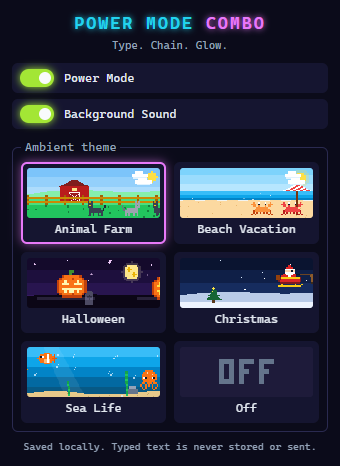
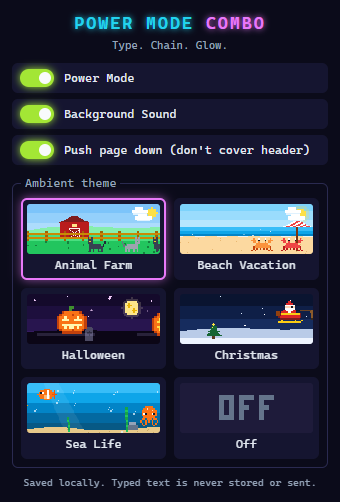
Add push-page-down mode so the ambient band sits above the site header

diff --git a/extension/src/content.js b/extension/src/content.js
@@ -48,6 +48,12 @@
   let counterAlpha = 0;
   let shownCount = 0;
 
+  let pushActive = false;
+  let pushStyle = null;
+  let pushObserver = null;
+  let scanTimer = 0;
+  const shifted = new Map();
+
   const makeCanvas = (w, h) => {
     const c = document.createElement('canvas');
     c.width = w;
@@ -337,6 +343,66 @@
     fullDirty = drewEffects || ox !== 0 || oy !== 0;
   }
 
+  // ---- Optional push-down: reserve the band above the page instead of covering it ------------
+
+  function scheduleScan() {
+    if (!scanTimer) scanTimer = setTimeout(scanPinned, 250);
+  }
+
+  function offsetIfPinned(el) {
+    if (shifted.has(el) || el === host || el === document.documentElement || el === document.body) return;
+    const cs = getComputedStyle(el);
+    if (cs.position !== 'fixed' && cs.position !== 'sticky') return;
+    const top = parseFloat(cs.top);
+    if (Number.isNaN(top) || top >= BAND) return;
+    shifted.set(el, { value: el.style.getPropertyValue('top'), priority: el.style.getPropertyPriority('top') });
+    el.style.setProperty('top', `${top + BAND}px`, 'important');
+  }
+
+  // Fixed/sticky headers ignore the html margin, so find anything pinned inside the band and move it down.
+  function scanPinned() {
+    scanTimer = 0;
+    if (!pushActive) return;
+    const w = document.documentElement.clientWidth;
+    const stepX = Math.max(40, w / 24);
+    for (let x = 4; x < w; x += stepX) {
+      for (const y of [2, BAND / 2, BAND - 2]) {
+        for (const el of document.elementsFromPoint(x, y)) offsetIfPinned(el);
+      }
+    }
+  }
+
+  function updatePush() {
+    const want = settings.pushPage && !!scene && !reducedMotion;
+    if (want === pushActive) {
+      if (want) scheduleScan();
+      return;
+    }
+    pushActive = want;
+    if (want) {
+      pushStyle = document.createElement('style');
+      pushStyle.textContent = `html{margin-top:${BAND}px !important;}`;
+      (document.head || document.documentElement).appendChild(pushStyle);
+      pushObserver = new MutationObserver(scheduleScan);
+      pushObserver.observe(document.documentElement, { childList: true, subtree: true });
+      window.addEventListener('scroll', scheduleScan, { capture: true, passive: true });
+      scanPinned();
+    } else {
+      pushStyle.remove();
+      pushStyle = null;
+      pushObserver.disconnect();
+      pushObserver = null;
+      window.removeEventListener('scroll', scheduleScan, { capture: true });
+      clearTimeout(scanTimer);
+      scanTimer = 0;
+      for (const [el, orig] of shifted) {
+        if (orig.value) el.style.setProperty('top', orig.value, orig.priority);
+        else el.style.removeProperty('top');
+      }
+      shifted.clear();
+    }
+  }
+
   // ---- Settings, audio, visibility --------------------------------------------------------------
 
   function updateMusic() {
@@ -363,6 +429,7 @@
       }
       fullDirty = true;
     }
+    updatePush();
     updateMusic();
     ensureLoop();
   }
@@ -428,7 +495,10 @@
   document.addEventListener('compositionstart', onCompositionStart, listen);
   document.addEventListener('compositionend', onCompositionEnd, listen);
   document.addEventListener('focusin', onFocusIn, listen);
-  window.addEventListener('resize', () => host && resize(), { passive: true });
+  window.addEventListener('resize', () => {
+    if (host) resize();
+    if (pushActive) scheduleScan();
+  }, { passive: true });
 
   document.addEventListener('visibilitychange', () => {
     if (document.hidden) {
@@ -448,6 +518,7 @@
     blots.clear();
     shakeLeft = 0;
     fullDirty = true;
+    updatePush();
     ensureLoop();
   });
 

diff --git a/tools/preview.html b/tools/preview.html
@@ -16,7 +16,7 @@
     <script>
       // In-memory stand-in for chrome.storage so the content scripts run on a plain page.
       (() => {
-        const data = { pmcSettings: { powerMode: true, sound: true, theme: 'farm' } };
+        const data = { pmcSettings: { powerMode: true, sound: true, pushPage: true, theme: 'farm' } };
         const listeners = [];
         window.chrome = {
           storage: {
@@ -54,6 +54,7 @@
       </label>
       <label><input type="checkbox" id="powerMode" checked /> Power Mode</label>
       <label><input type="checkbox" id="sound" checked /> Background Sound (starts after a click)</label>
+      <label><input type="checkbox" id="pushPage" checked /> Push page down</label>
     </div>
 
     <main>
@@ -80,11 +81,12 @@
     <script src="../extension/src/audio.js"></script>
     <script src="../extension/src/content.js"></script>
     <script>
-      const ids = ['theme', 'powerMode', 'sound'];
+      const ids = ['theme', 'powerMode', 'sound', 'pushPage'];
       const read = () => ({
         theme: document.getElementById('theme').value,
         powerMode: document.getElementById('powerMode').checked,
         sound: document.getElementById('sound').checked,
+        pushPage: document.getElementById('pushPage').checked,
       });
       for (const id of ids) document.getElementById(id).addEventListener('change', () => chrome.storage.local.set({ pmcSettings: read() }));
     </script>

diff --git a/extension/popup/popup.js b/extension/popup/popup.js
@@ -10,6 +10,7 @@
 
   const powerMode = document.getElementById('powerMode');
   const sound = document.getElementById('sound');
+  const pushPage = document.getElementById('pushPage');
   const grid = document.getElementById('themeGrid');
   let settings = Core.normalizeSettings(null);
 
@@ -72,6 +73,7 @@
   function render() {
     powerMode.checked = settings.powerMode;
     sound.checked = settings.sound;
+    pushPage.checked = settings.pushPage;
     for (const p of previews) p.input.checked = p.input.value === settings.theme;
   }
 
@@ -83,6 +85,7 @@
 
   powerMode.addEventListener('change', () => save({ powerMode: powerMode.checked }));
   sound.addEventListener('change', () => save({ sound: sound.checked }));
+  pushPage.addEventListener('change', () => save({ pushPage: pushPage.checked }));
 
   render();
   chrome.storage.local.get(Core.STORAGE_KEY).then((res) => {

diff --git a/tests/unit/core.test.js b/tests/unit/core.test.js
@@ -178,7 +178,7 @@ test('spawner respects the active cap and its gap timer', () => {
 });
 
 test('settings normalize to safe defaults', () => {
-  assert.deepEqual(Core.normalizeSettings(undefined), { powerMode: true, sound: true, theme: 'farm' });
-  assert.deepEqual(Core.normalizeSettings({ powerMode: 'yes', sound: false, theme: 'mars' }), { powerMode: true, sound: false, theme: 'farm' });
+  assert.deepEqual(Core.normalizeSettings(undefined), { powerMode: true, sound: true, pushPage: true, theme: 'farm' });
+  assert.deepEqual(Core.normalizeSettings({ powerMode: 'yes', sound: false, pushPage: 1, theme: 'mars' }), { powerMode: true, sound: false, pushPage: true, theme: 'farm' });
   for (const id of Core.THEME_IDS) assert.equal(Core.normalizeSettings({ theme: id }).theme, id);
 });

diff --git a/extension/src/core.js b/extension/src/core.js
@@ -7,7 +7,7 @@
   'use strict';
 
   const THEME_IDS = Object.freeze(['farm', 'beach', 'halloween', 'christmas', 'sea', 'off']);
-  const DEFAULT_SETTINGS = Object.freeze({ powerMode: true, sound: true, theme: 'farm' });
+  const DEFAULT_SETTINGS = Object.freeze({ powerMode: true, sound: true, pushPage: true, theme: 'farm' });
   const STORAGE_KEY = 'pmcSettings';
 
   const LIMITS = Object.freeze({
@@ -25,6 +25,7 @@
     return {
       powerMode: typeof s.powerMode === 'boolean' ? s.powerMode : DEFAULT_SETTINGS.powerMode,
       sound: typeof s.sound === 'boolean' ? s.sound : DEFAULT_SETTINGS.sound,
+      pushPage: typeof s.pushPage === 'boolean' ? s.pushPage : DEFAULT_SETTINGS.pushPage,
       theme: THEME_IDS.includes(s.theme) ? s.theme : DEFAULT_SETTINGS.theme,
     };
   }

diff --git a/extension/popup/popup.html b/extension/popup/popup.html
@@ -22,6 +22,11 @@
         <span class="track" aria-hidden="true"></span>
         <span class="text">Background Sound</span>
       </label>
+      <label class="switch">
+        <input type="checkbox" id="pushPage" role="switch" />
+        <span class="track" aria-hidden="true"></span>
+        <span class="text">Push page down (don't cover header)</span>
+      </label>
     </section>
 
     <fieldset class="themes">

diff --git a/README.md b/README.md
@@ -45,8 +45,14 @@ The screenshots and GIF were captured from real Chrome with the unpacked extensi
 - **Ambient behavior.** The scenery starts as soon as you choose a theme. It keeps animating while
   the page sits idle, and the characters respawn on their own. It runs independently of typing.
 - **Compact popup.** The popup has a Power Mode toggle (on by default), a Background Sound toggle
-  (on by default), and live theme previews. You can pick **Animal Farm, Beach Vacation, Halloween,
-  Christmas, Sea Life, or Off**. Your choices are saved in `chrome.storage.local`.
+  (on by default), a Push page down toggle (on by default), and live theme previews. You can pick
+  **Animal Farm, Beach Vacation, Halloween, Christmas, Sea Life, or Off**. Your choices are saved in
+  `chrome.storage.local`.
+- **Band above the header.** With **Push page down** on, the page moves down 60 px, so the themed
+  band sits above the site's header instead of covering it. Headers pinned to the top
+  (`position: fixed` or `sticky`) are moved down too. Everything is restored when you choose
+  **Off**, turn the toggle off, or enable reduced motion. Turn the toggle off to draw the band over
+  the page instead.
 
 ## Install (unpacked)
 
@@ -119,6 +125,10 @@ extension/
   counter only. You get no scenery, sparks, blots, shake, or pulse.
 - **Shake.** The celebration shake offsets only the overlay canvas drawing. The page's DOM, styles,
   and scroll position are never touched, and an end-to-end test checks this.
+- **Push page down.** This mode adds one removable `<style>` rule, `html { margin-top: 60px }`. It
+  also finds fixed or sticky elements pinned inside the band, using `elementsFromPoint` sampling
+  that reruns (debounced) on DOM changes, scrolling, and resizing. It adds 60 px to their `top`
+  and remembers each original inline value so it can restore it exactly.
 
 ## Compatibility and limits
 
@@ -128,8 +138,10 @@ extension/
 - It is **not** guaranteed to work with every custom editor. Canvas-based editors like Google Docs,
   editors that capture keys in hidden iframes, Monaco/CodeMirror variants that bypass native
   `input` events, and editors inside iframes or closed shadow roots may not report hits.
-- The 60 px ambient band is drawn over the top of the page, so a site's header can be covered
-  visually. Clicks still go through to it. Choose **Off** to hide the band.
+- With **Push page down** off, the 60 px band is drawn over the top of the page, so a site's header
+  can be covered visually, though clicks still reach it. With it on, a few full-height app layouts
+  (`height: 100vh` with their own scrolling) may lose 60 px at the bottom. Switch the toggle off on
+  those sites.
 - The overlay sits behind elements in the browser's top layer, such as fullscreen video and modal
   `<dialog>` elements.
 
